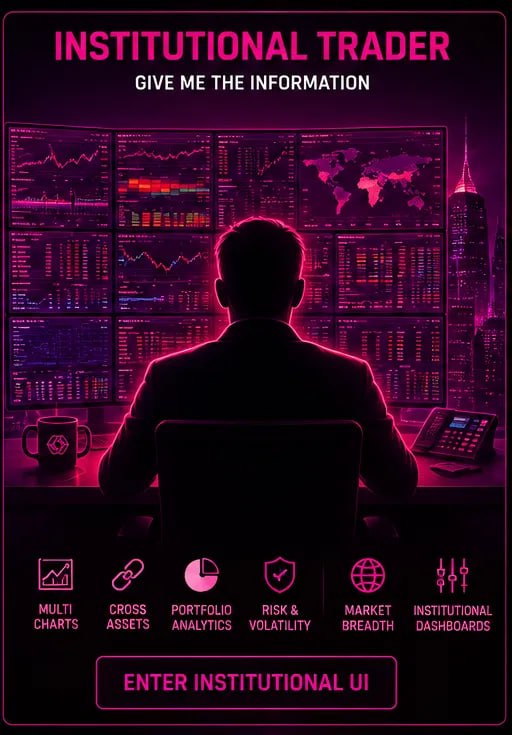
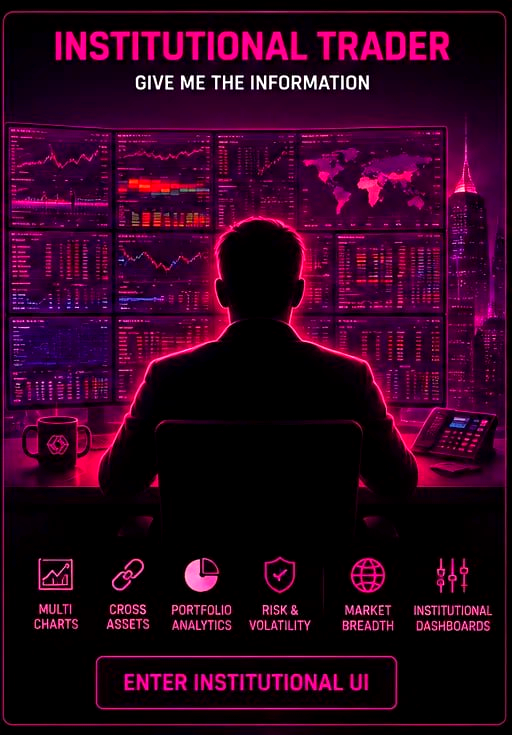
Intensify path-card art and site neon so the homepage is no longer dull
Boost the Choose Your Path PNGs/WebPs, restore neon brand tokens, and punch up card glows, nav borders, desk chrome, and marketing images. Reduced sensory and high contrast still strip the extra saturation.

diff --git a/src/components/ChooseYourPath.tsx b/src/components/ChooseYourPath.tsx
@@ -30,7 +30,7 @@ function SharpPathImage({
         height={height}
         decoding="async"
         draggable={false}
-        className="pointer-events-none block h-auto w-full"
+        className="pointer-events-none block h-auto w-full cp-path-art"
         style={{
           maxWidth: `${width}px`,
           imageRendering: 'auto',
@@ -50,7 +50,7 @@ export default function ChooseYourPath({ onChoosePath }: Props) {
       <div className="max-w-7xl mx-auto px-3 sm:px-8">
         <h2
           id="choose-path-heading"
-          className="text-center text-xl sm:text-3xl md:text-4xl font-black tracking-tight text-white uppercase leading-snug font-sans mb-8 sm:mb-10"
+          className="text-center text-xl sm:text-3xl md:text-4xl font-black tracking-tight uppercase leading-snug font-sans mb-8 sm:mb-10 bg-gradient-to-r from-[#00FFFF] via-[#FFD700] to-[#FF1493] bg-clip-text text-transparent"
         >
           Welcome to ClearPath Trader Please choose your path
         </h2>
@@ -62,10 +62,10 @@ export default function ChooseYourPath({ onChoosePath }: Props) {
                 type="button"
                 data-path-card={card.id}
                 onClick={() => onChoosePath(card.id)}
-                className="w-full rounded-2xl overflow-hidden border bg-black/80 text-left cursor-pointer"
+                className="cp-path-card w-full rounded-2xl overflow-hidden border bg-black text-left cursor-pointer"
                 style={{
-                  borderColor: `${card.accent}66`,
-                  boxShadow: `0 0 24px ${card.accent}22`,
+                  borderColor: `${card.accent}CC`,
+                  boxShadow: `0 0 28px ${card.accent}88, 0 0 64px ${card.accent}40`,
                 }}
                 aria-label={`Private Login to open ${card.title}`}
               >
@@ -87,7 +87,8 @@ export default function ChooseYourPath({ onChoosePath }: Props) {
               type="button"
               data-path-card="neurodivergent"
               onClick={() => onChoosePath('neurodivergent')}
-              className="w-full rounded-2xl overflow-hidden border border-[#FF1493]/40 text-left cursor-pointer"
+              className="cp-path-card w-full rounded-2xl overflow-hidden border border-[#FF1493]/80 text-left cursor-pointer"
+              style={{ boxShadow: '0 0 32px rgba(255,20,147,0.45), 0 0 72px rgba(0,229,255,0.22)' }}
               aria-label="Private Login to open Neurodivergent Traders"
             >
               <SharpPathImage

diff --git a/src/index.css b/src/index.css
@@ -93,15 +93,16 @@ textarea {
   --scroll-panel-gradient: linear-gradient(180deg, #b8ffff 0%, #00ffff 52%, #00e5ff 100%);
   --scroll-panel-glow: inset 0 0 7px rgba(0, 255, 255, 0.95), 0 0 8px rgba(0, 255, 255, 0.7), 0 0 16px rgba(0, 229, 255, 0.45);
 
-  /* CTA fills — mid-tone WCAG-safe (4.5:1 with white). Neon stays in decorative accents. */
-  --cpt-pink: #d81b60;
-  --cpt-orange: #e65100;
+  /* Default chrome is neon on black. High Contrast / Reduced Sensory remap below. */
+  --cpt-pink: #FF1493;
+  --cpt-orange: #FF6A00;
+  --cpt-cyan: #00FFFF;
   --cpt-cta-on-pink: #ffffff;
   --cpt-cta-on-orange: #ffffff;
   /* Readable tinted copy on near-black */
-  --cpt-text-pink: #f472b6;
-  --cpt-text-orange: #fb923c;
-  --cpt-text-purple: #e9d5ff;
+  --cpt-text-pink: #FF5AB8;
+  --cpt-text-orange: #FF9A3D;
+  --cpt-text-purple: #E9D5FF;
 }
 
 /* —— WCAG High Contrast — lift muted / tinted copy further —— */
@@ -904,4 +905,33 @@ details.relative summary::-webkit-details-marker {
   .animate-pulse {
     animation: none !important;
   }
+}
+
+/* —— Color punch: path art + site chrome. Off for reduced sensory / high contrast. —— */
+.cp-path-art {
+  filter: saturate(1.42) contrast(1.16) brightness(1.06);
+}
+
+img:not(.cp-path-art):not(.no-color-boost):not([data-no-color-boost]) {
+  filter: saturate(1.22) contrast(1.08) brightness(1.03);
+}
+
+.cp-path-card {
+  transition: box-shadow 160ms ease, border-color 160ms ease;
+}
+
+html:not([data-reduced-sensory="true"]):not([data-high-contrast="true"]) .text-neon-glow,
+html:not([data-reduced-sensory="true"]):not([data-high-contrast="true"]) .neon-cyan-text,
+html:not([data-reduced-sensory="true"]):not([data-high-contrast="true"]) .lava-hot-text {
+  text-shadow:
+    0 0 6px currentColor,
+    0 0 16px currentColor,
+    0 0 28px color-mix(in srgb, currentColor 55%, transparent);
+}
+
+html[data-reduced-sensory="true"] .cp-path-art,
+html[data-reduced-sensory="true"] img,
+html[data-high-contrast="true"] .cp-path-art,
+html[data-high-contrast="true"] img {
+  filter: none !important;
 }

diff --git a/src/components/nav/ClearNav.tsx b/src/components/nav/ClearNav.tsx
@@ -42,14 +42,14 @@ const PAGE_LINKS: { href: string; icon: React.ElementType; label: string; classe
     href: "/brokers",
     icon: Landmark,
     label: "BROKERS",
-    classes: "text-[#00E5FF] border border-[#00E5FF]/30 hover:bg-[#00E5FF]/10",
+    classes: "text-[#00E5FF] border border-[#00E5FF]/60 hover:bg-[#00E5FF]/20",
     testId: "nav-brokers-link",
   },
   {
     href: "/plans",
     icon: Crown,
     label: "PLANS",
-    classes: "text-[#FFD700] border border-[#FFD700]/35 hover:bg-[#FFD700]/10",
+    classes: "text-[#FFD700] border border-[#FFD700]/65 hover:bg-[#FFD700]/20",
     testId: "nav-plans-link",
   },
 ];
@@ -159,19 +159,19 @@ export const ClearNav: React.FC<ClearNavProps> = ({
       isSecondaryGroup || index % 2 === 1;
 
     let classes =
-      "text-[#4D00FF] border border-[#4D00FF]/25 hover:bg-[#4D00FF]/10";
+      "text-[#4D00FF] border border-[#4D00FF]/55 hover:bg-[#4D00FF]/20";
 
     if (isOrange)
       classes =
-        "text-[#FF6A00] border border-[#FF6A00]/25 hover:bg-[#FF6A00]/10";
+        "text-[#FF6A00] border border-[#FF6A00]/55 hover:bg-[#FF6A00]/20";
 
     if (isPink)
       classes =
-        "text-[#FF1493] border border-[#FF1493]/30 hover:bg-[#FF1493]/10";
+        "text-[#FF1493] border border-[#FF1493]/60 hover:bg-[#FF1493]/20";
 
     if (isCyan)
       classes =
-        "text-[#00E5FF] border border-[#00E5FF]/30 hover:bg-[#00E5FF]/10";
+        "text-[#00E5FF] border border-[#00E5FF]/60 hover:bg-[#00E5FF]/20";
 
     if (isActive) {
       if (isPink)

diff --git a/src/components/desks/deskTheme.css b/src/components/desks/deskTheme.css
@@ -1,5 +1,5 @@
 .desk-shell {
-  --desk-border: rgba(255, 255, 255, 0.12);
+  --desk-border: rgba(255, 255, 255, 0.2);
   --desk-panel: rgba(8, 8, 10, 0.88);
   --desk-cyan: #00ffff;
   --desk-indigo: #818cf8;
@@ -67,7 +67,7 @@
 
 /* Retail Market: neon indigo → hot pink (replaces emerald/cyan chrome) */
 .desk-shell [data-retail-door] {
-  --desk-border: rgba(255, 20, 147, 0.32);
+  --desk-border: rgba(255, 20, 147, 0.52);
   --desk-panel: rgba(14, 8, 24, 0.96);
   --desk-cyan: #818cf8;
   --desk-indigo: #6366f1;
@@ -146,7 +146,8 @@
     linear-gradient(135deg, rgba(99, 102, 241, 0.95), rgba(255, 20, 147, 0.95)) border-box !important;
   box-shadow:
     inset 0 0 0 1px rgba(255, 255, 255, 0.04),
-    0 0 24px rgba(99, 102, 241, 0.08),
+    0 0 28px rgba(99, 102, 241, 0.22),
+    0 0 48px rgba(255, 20, 147, 0.16),
     0 0 0 1px rgba(0, 0, 0, 0.35);
 }
 
@@ -154,8 +155,8 @@
 .desk-shell [data-retail-door] section.flex > header,
 .desk-shell [data-retail-door] [data-retail-bento] > header,
 .desk-shell [data-retail-door] .retail-bento > header {
-  border-bottom: 1.5px solid rgba(255, 20, 147, 0.28) !important;
-  background: linear-gradient(90deg, rgba(99, 102, 241, 0.14), rgba(255, 20, 147, 0.1));
+  border-bottom: 1.5px solid rgba(255, 20, 147, 0.48) !important;
+  background: linear-gradient(90deg, rgba(99, 102, 241, 0.22), rgba(255, 20, 147, 0.18));
   padding: 0.65rem 0.85rem !important;
 }
 

diff --git a/src/styles/codepen.css b/src/styles/codepen.css
@@ -2,12 +2,12 @@
 
 .clearpath-glass-root {
   font-family: "Poppins", "Inter", sans-serif;
-  --theme-bg-color: rgba(6, 10, 20, 0.45);
-  --border-color: rgba(255, 255, 255, 0.08);
+  --theme-bg-color: rgba(6, 10, 20, 0.32);
+  --border-color: rgba(255, 255, 255, 0.14);
   --theme-color: #f9fafb;
   --inactive-color: rgba(146, 153, 179, 0.7);
   --hover-menu-bg: rgba(255, 255, 255, 0.06);
-  --content-title-color: #00f0ff;
+  --content-title-color: #00ffff;
   --content-bg: rgba(255, 255, 255, 0.03);
   --button-inactive: rgba(249, 250, 251, 0.55);
   --dropdown-bg: #090c15;
@@ -64,7 +64,7 @@
   width: 100%;
   height: 100%;
   object-fit: cover;
-  filter: brightness(0.35) contrast(1.1) saturate(1.1) hue-rotate(10deg);
+  filter: brightness(0.42) contrast(1.18) saturate(1.45) hue-rotate(6deg);
 }
 
 .clearpath-glass-root .app {
